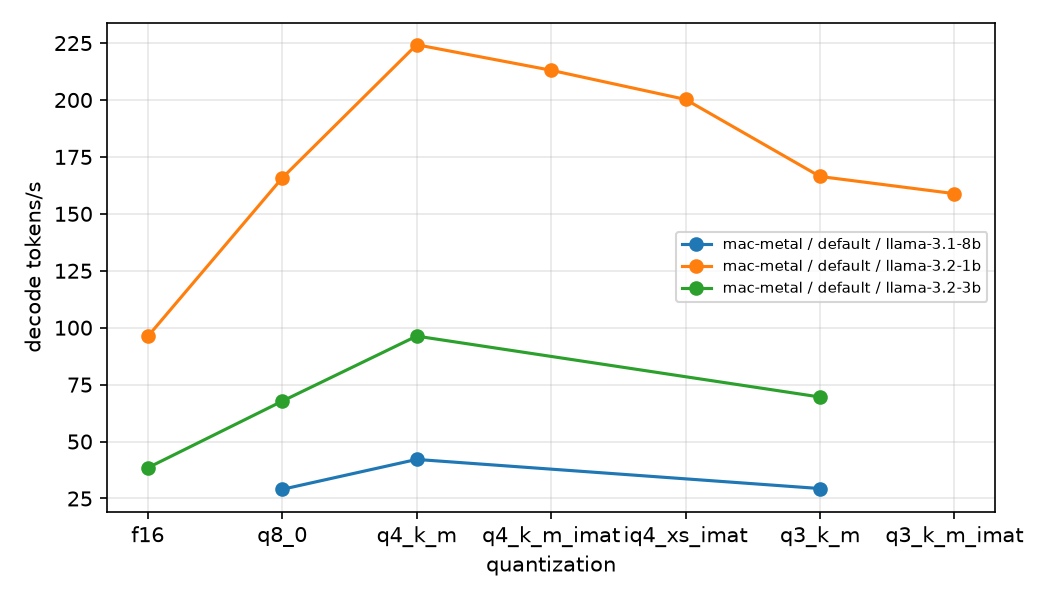
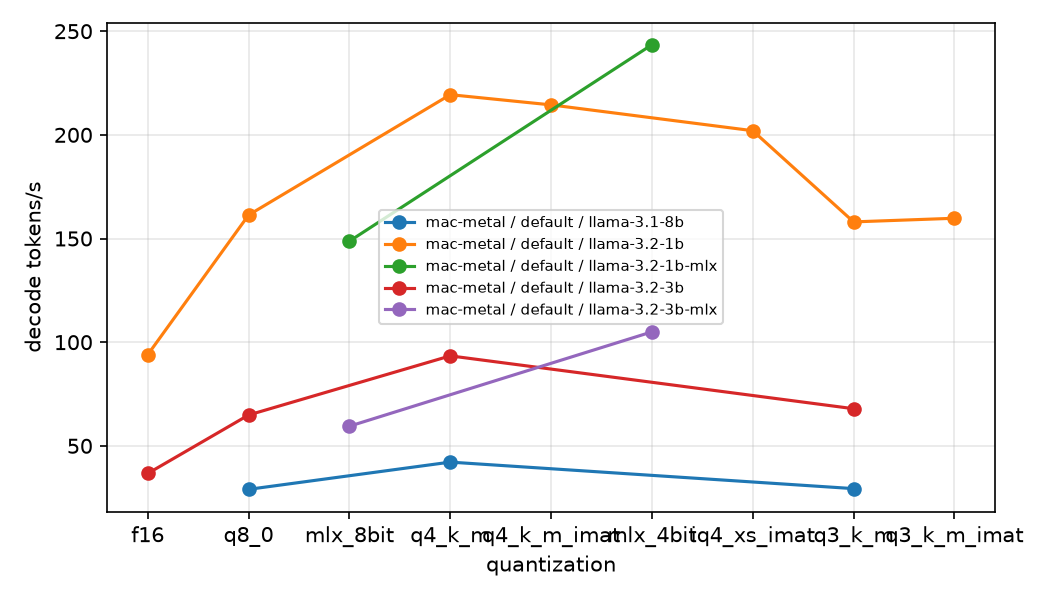
Add MLX rows (n=1)

diff --git a/report/results.md b/report/results.md
@@ -3,17 +3,21 @@
 | mac-metal | default | llama-3.1-8b | q8_0 | 8.53 | 376.6 | 29.0 | 0.5 (2) | 248 | 32.78 | 1.130 | 7.12 |
 | mac-metal | default | llama-3.1-8b | q4_k_m | 4.91 | 361.8 | 42.1 | 1.3 (2) | 207 | 31.55 | 0.749 | 7.30 |
 | mac-metal | default | llama-3.1-8b | q3_k_m | 4.01 | 341.2 | 29.4 | 0.6 (2) | 118 | 35.98 | 1.225 | 7.64 |
-| mac-metal | default | llama-3.2-1b | f16 | 2.47 | 2847.2 | 96.1 | - (1) | 238 | 28.35 | 0.295 | 14.34 |
-| mac-metal | default | llama-3.2-1b | q8_0 | 1.31 | 2717.1 | 165.7 | - (1) | 218 | 32.16 | 0.194 | 14.35 |
-| mac-metal | default | llama-3.2-1b | q4_k_m | 0.80 | 2603.3 | 224.3 | - (1) | 179 | 29.98 | 0.134 | 14.89 |
-| mac-metal | default | llama-3.2-1b | q4_k_m_imat | 0.80 | 2488.3 | 213.1 | - (1) | 170 | 33.04 | 0.155 | 14.80 |
-| mac-metal | default | llama-3.2-1b | iq4_xs_imat | 0.74 | 2548.4 | 200.2 | - (1) | 147 | 33.24 | 0.166 | 14.99 |
-| mac-metal | default | llama-3.2-1b | q3_k_m | 0.68 | 2499.6 | 166.4 | - (1) | 114 | 32.83 | 0.197 | 16.91 |
-| mac-metal | default | llama-3.2-1b | q3_k_m_imat | 0.68 | 2389.0 | 158.9 | - (1) | 108 | 35.84 | 0.226 | 16.06 |
-| mac-metal | default | llama-3.2-3b | f16 | 6.43 | 983.9 | 38.5 | - (1) | 247 | 37.08 | 0.964 | 10.57 |
-| mac-metal | default | llama-3.2-3b | q8_0 | 3.41 | 931.5 | 67.7 | - (1) | 231 | 32.01 | 0.473 | 10.58 |
-| mac-metal | default | llama-3.2-3b | q4_k_m | 2.01 | 895.8 | 96.3 | - (1) | 194 | 30.16 | 0.313 | 10.87 |
-| mac-metal | default | llama-3.2-3b | q3_k_m | 1.68 | 864.7 | 69.6 | - (1) | 117 | 33.90 | 0.487 | 11.81 |
+| mac-metal | default | llama-3.2-1b | f16 | 2.47 | 2793.2 | 94.0 | 3.1 (2) | 232 | 30.55 | 0.326 | 14.34 |
+| mac-metal | default | llama-3.2-1b | q8_0 | 1.31 | 2664.9 | 161.3 | 6.3 (2) | 212 | 33.60 | 0.209 | 14.35 |
+| mac-metal | default | llama-3.2-1b | q4_k_m | 0.80 | 2556.6 | 219.4 | 6.9 (2) | 176 | 31.36 | 0.143 | 14.89 |
+| mac-metal | default | llama-3.2-1b | q4_k_m_imat | 0.80 | 2499.3 | 214.5 | 1.2 (3) | 172 | 33.09 | 0.154 | 14.80 |
+| mac-metal | default | llama-3.2-1b | iq4_xs_imat | 0.74 | 2557.5 | 202.0 | 1.6 (3) | 148 | 34.14 | 0.169 | 14.99 |
+| mac-metal | default | llama-3.2-1b | q3_k_m | 0.68 | 2379.9 | 158.0 | 11.9 (2) | 108 | 35.29 | 0.225 | 16.91 |
+| mac-metal | default | llama-3.2-1b | q3_k_m_imat | 0.68 | 2401.3 | 159.8 | 0.8 (3) | 109 | 37.19 | 0.233 | 16.06 |
+| mac-metal | default | llama-3.2-1b-mlx | mlx_8bit | 1.31 | 2461.6 | 148.7 | - (1) | 195 | 17.84 | 0.120 | - |
+| mac-metal | default | llama-3.2-1b-mlx | mlx_4bit | 0.70 | 2505.6 | 243.5 | - (1) | 169 | 17.84 | 0.073 | - |
+| mac-metal | default | llama-3.2-3b | f16 | 6.43 | 958.5 | 36.7 | 1.6 (3) | 236 | 35.10 | 0.957 | 10.57 |
+| mac-metal | default | llama-3.2-3b | q8_0 | 3.41 | 911.4 | 64.9 | 2.5 (3) | 222 | 33.13 | 0.511 | 10.58 |
+| mac-metal | default | llama-3.2-3b | q4_k_m | 2.01 | 873.4 | 93.4 | 3.1 (3) | 188 | 32.29 | 0.346 | 10.87 |
+| mac-metal | default | llama-3.2-3b | q3_k_m | 1.68 | 843.9 | 67.9 | 1.4 (3) | 114 | 36.03 | 0.531 | 11.81 |
+| mac-metal | default | llama-3.2-3b-mlx | mlx_8bit | 3.41 | 798.7 | 59.5 | - (1) | 203 | 19.97 | 0.336 | - |
+| mac-metal | default | llama-3.2-3b-mlx | mlx_4bit | 1.81 | 862.0 | 105.0 | - (1) | 190 | 21.75 | 0.207 | - |
 
 *J/token = mean power over the bench window / decode tokens-per-second (approximate).
 **Eff. GB/s = decode tokens/s x model size: the weight bytes streamed per second.
